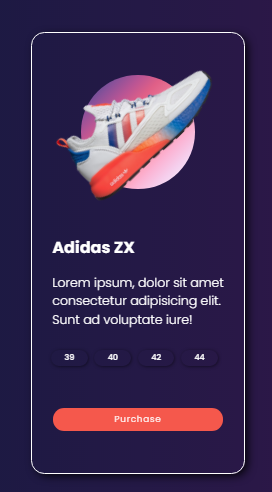
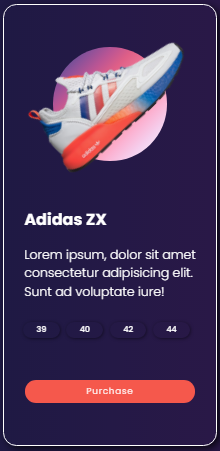
creacion vista maquetacion

diff --git a/maquetacion.html b/maquetacion.html
@@ -1,0 +1,71 @@
+<!DOCTYPE html>
+<html lang="en">
+<head>
+    <meta charset="UTF-8">
+    <meta http-equiv="X-UA-Compatible" content="IE=edge">
+    <meta name="viewport" content="width=device-width, initial-scale=1.0">
+    <link rel="stylesheet" href="./styles/maquetacion.css">
+    <link rel="stylesheet" href="./styles/mediaquery.css">
+    <title>Document</title>
+</head>
+<body>
+    <section>
+        <div class="contenedor">
+            <div class="content">
+                <img src="./img/m5.png" alt="">
+                <h2>Image 3D Card</h2>
+                <div class="skill">
+                    <span>HTML5</span>
+                    <span>Css3</span>
+                </div>
+            </div>
+
+            <div class="content">
+                <img src="./img/m4.png" alt="">
+                <h2>Css3 3D Fordable Card Hover Effects</h2>
+                <div class="skill">
+                    <span>HTML5</span>
+                    <span>Css3</span>
+                </div>
+            </div>
+
+            <div class="content">
+                <img src="./proyectos/css-ed-image-hover-effects/img/img.jpg" alt="">
+                <h2>Css3 3D Image Hover Effects</h2>
+                <div class="skill">
+                    <span>HTML5</span>
+                    <span>Css3</span>
+                </div>
+            </div>
+
+            <div class="content">
+                <img src="./img/m1.png" alt="">
+                <h2>Glassmorphism List Hover Effects</h2>
+                <div class="skill">
+                    <span>HTML5</span>
+                    <span>Css3</span>
+                </div>
+            </div>
+
+            <div class="content">
+                <img src="./img/m3.png" alt="">
+                <h2>Responsive Ecommerce Website Product Cards</h2>
+                <div class="skill">
+                    <span>HTML5</span>
+                    <span>Css3</span>
+                </div>
+            </div>
+
+            <div class="content">
+                <img src="./img/m2.png" alt="">
+                <h2>Slider 3D</h2>
+                <div class="skill">
+                    <span>HTML5</span>
+                    <span>Css3</span>
+                    <span>Materialize</span>
+                </div>
+            </div>
+        </div>
+    </section>
+</body>
+</html>

diff --git a/proyectos/css-ed-image-hover-effects/index.html b/proyectos/css-ed-image-hover-effects/index.html
@@ -11,7 +11,7 @@
     <div class="container">
         <div class="box">
             <div class="imgBx">
-                <img src="../slider/3d-swipe-slider-using-materialize/images/pexels-meruyert-gonullu-6152385.jpg" alt="">
+                <img src="/img/diploma-basico-javascript_page-0001.jpg" alt="">
             </div>
             <div class="content">
                 <div>
@@ -23,7 +23,7 @@
 
         <div class="box">
             <div class="imgBx">
-                <img src="../slider/3d-swipe-slider-using-materialize/images/pexels-charles-parker-5847570.jpg" alt="">
+                <img src="/img/diploma-css-grid-layout_page-0001.jpg" alt="">
             </div>
             <div class="content">
                 <div>
@@ -35,7 +35,7 @@
 
         <div class="box">
             <div class="imgBx">
-                <img src="../slider/3d-swipe-slider-using-materialize/images/pexels-francesco-ungaro-4322027.jpg" alt="">
+                <img src="/img/diploma-definitivohtml-css_page-0001.jpg" alt="">
             </div>
             <div class="content">
                 <div>
@@ -47,7 +47,7 @@
 
         <div class="box">
             <div class="imgBx">
-                <img src="../slider/3d-swipe-slider-using-materialize/images/pexels-laura-tancredi-7078710.jpg" alt="">
+                <img src="/img/diploma-git-github_page-0001.jpg" alt="">
             </div>
             <div class="content">
                 <div>

diff --git a/styles/maquetacion.css b/styles/maquetacion.css
@@ -1,0 +1,66 @@
+*{
+    padding: 0;
+    margin: 0;
+    box-sizing: border-box;
+    font-family: 'Poppins', sans-serif;
+}
+body{    
+    background-image: linear-gradient(to right, #051937, #141a3f, #241946, #351649, #470f4a);
+}
+body::-webkit-scrollbar{
+    width: 10px;
+    background-color: #470f4a;
+}
+body::-webkit-scrollbar-thumb{
+    background-color: white;
+    border-radius: 10px;
+}
+.contenedor{
+    display: flex;
+    justify-content: space-around;
+    align-items: flex-start;
+    flex-wrap: wrap;
+    align-self: flex-start;
+}
+.content{
+    margin: 10px 10px 30px 10px;
+    padding: 20px;
+    border: 1px solid white;
+    border-radius: 10px;
+    background-color: rgba(255, 255, 255, 0.323);
+    max-width: 300px;
+    max-height: 100vh;
+    justify-content: center;
+    display: flex;
+    flex-direction: column;
+}
+.content img{
+    border-radius: 20px;
+    margin-bottom: 10px;
+    max-height: 50vh;
+    object-fit: contain;
+}
+.content h2{
+    color: white;
+    text-align: center;
+    padding-bottom: 5px;
+}
+.content p{
+    color: white;
+    text-align: justify;
+    padding-bottom: 5px;
+}
+.content .skill{
+    display: flex;
+    justify-content: center;
+    align-items: center;
+    flex-wrap: wrap;
+}
+.skill span{
+    color: white;
+    margin: 10px;
+    padding: 10px 20px;
+    border: 1px solid white;
+    border-radius: 20px;
+    background-color: rgba(255, 255, 255, 0.323);
+}

diff --git a/proyectos/slider/3d-swipe-slider-using-materialize/index.html b/proyectos/slider/3d-swipe-slider-using-materialize/index.html
@@ -13,22 +13,22 @@
     <!-- https://materializecss.com -->
     <div class="carousel">
         <div class="carousel-item">
-            <img src="./images/pexels-anete-lusina-6331044.jpg" alt="imagen1">
+            <img src="/img/diploma-basico-javascript_page-0001.jpg" alt="imagen1">
         </div>
         <div class="carousel-item">
-            <img src="./images/pexels-charles-parker-5847570.jpg" alt="imagen2">
+            <img src="/img/diploma-css-grid-layout_page-0001.jpg" alt="imagen2">
         </div>
         <div class="carousel-item">
-            <img src="./images/pexels-laura-tancredi-7078710.jpg" alt="imagen3">
+            <img src="/img/diploma-definitivohtml-css_page-0001.jpg" alt="imagen3">
         </div>
         <div class="carousel-item">
-            <img src="./images/pexels-meruyert-gonullu-6152385.jpg" alt="imagen4">
+            <img src="/img/diploma-flexbox-css-grid_page-0001.jpg" alt="imagen4">
         </div>
         <div class="carousel-item">
-            <img src="./images/pexels-ricardo-esquivel-5362096.jpg" alt="imagen5">
+            <img src="/img/diploma-frontend-developer_page-0001.jpg" alt="imagen5">
         </div>
         <div class="carousel-item">
-            <img src="./images/pexels-francesco-ungaro-4322027.jpg" alt="imagen6">
+            <img src="/img/diploma-git-github_page-0001.jpg" alt="imagen6">
         </div>
     </div>
     <div class="menu">

diff --git a/proyectos/css-3d-foldable-card-hover-effects/index.html b/proyectos/css-3d-foldable-card-hover-effects/index.html
@@ -143,13 +143,13 @@
         </div>
         <div class="details">
             <div class="content">
-                <h2>David Felipe Caicedo Canchón<br><span>Ingeniero de Sistemas</span></h2>
-                <div class="social-icons">
+                <h2>Pulsera Inteligente Y5<br><span>Android, IOS, Ritmo Cardiaco</span></h2>
+                <!-- <div class="social-icons">
                     <a href="https://www.facebook.com/davidflcaicedoc/"><i class="fa fa-facebook" aria-hidden="true"></i></a>
                     <a href="https://www.instagram.com/david_caicedo93/"><i class="fa fa-instagram" aria-hidden="true"></i></a>
                     <a href="https://www.linkedin.com/in/david-felipe-caicedo-canchón-b41410a2/"><i class="fa fa-linkedin" aria-hidden="true"></i></a>
                     <a href="https://davidfcc7.github.io"><i class="fa fa-github" aria-hidden="true"></i></a>
-                </div>
+                </div> -->
             </div>
         </div>
     </div>

diff --git a/proyectos/slider/3d-swipe-slider-using-materialize/css/style.css b/proyectos/slider/3d-swipe-slider-using-materialize/css/style.css
@@ -15,27 +15,17 @@ body{
     position: relative;
     height: 600px;
     margin-top: 80px;
-    perspective: 200px;
+    perspective: 600px;
 }
 
 .carousel .carousel-item{
-    width: 250px;
+    width: 450px;
 }
 
 .carousel .carousel-item img{
-    max-width: 180px;
-    height: 320px;
-    transform: translateX(30px) translateY(-60px);
-}
-
-.mobile{
-    max-width: 260px;
-    position: absolute;
-    top: 50%;
-    left: 50%;
-    transform: translate(-50%, -50%);
-    z-index: 1000;
-    pointer-events: none;
+    max-width: 400px;
+    height: 420px;
+    transform: translateX(20px) translateY(-80px);
 }
 .menu{
     padding: 20px;
